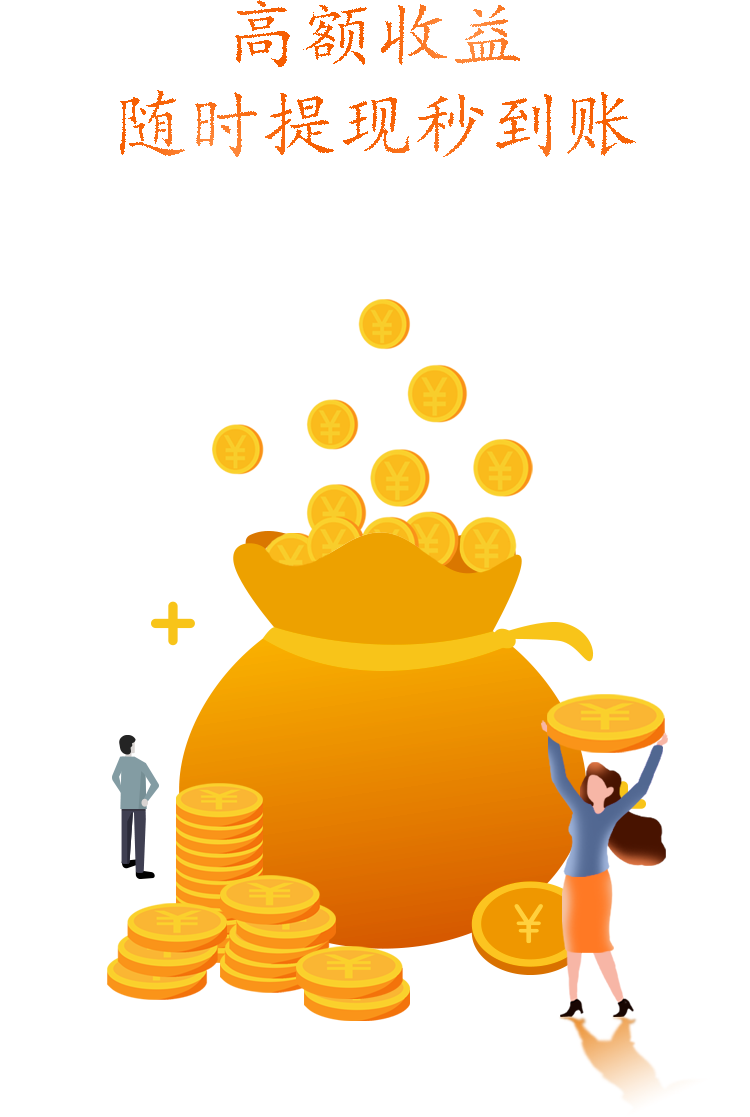
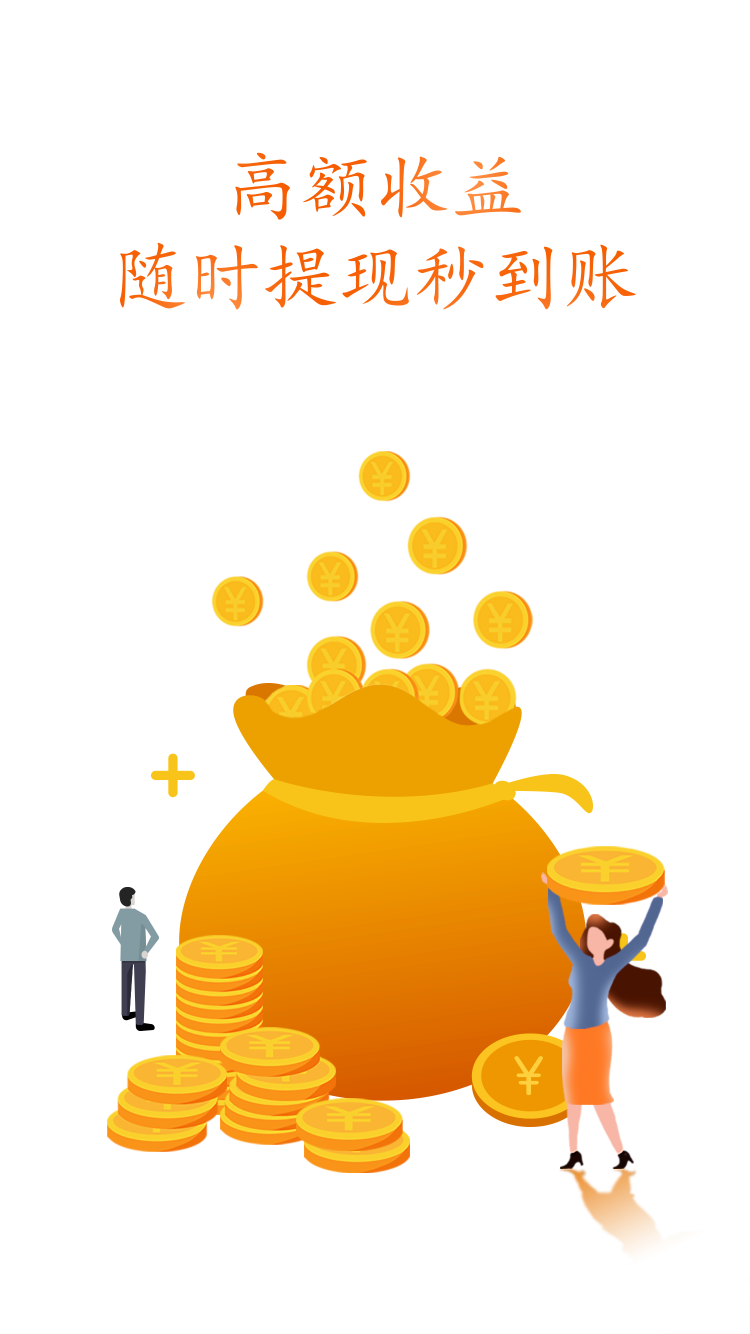
启动页图片替换

diff --git a/item2/css/mian.css b/item2/css/mian.css
@@ -907,9 +907,9 @@ to{transform: rotate(360deg)}
 	background: url(../img/startupPage.png) #fff no-repeat;
 	background-size: 100% 100%;
 }
-.startupPage img:first-child{
+/* .startupPage img:first-child{
 	margin-top:76px;
-}
+} */
 .record ul{
 	padding-top: 20px;
 }
